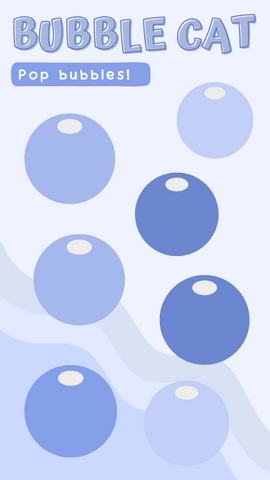
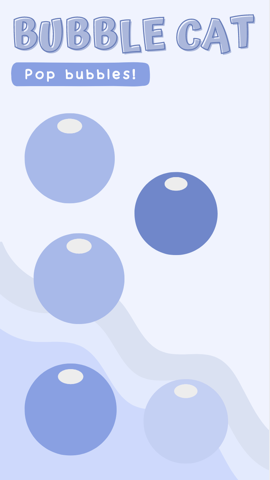
finished!

diff --git a/main.py b/main.py
@@ -8,14 +8,15 @@ root = Tk()
 root.geometry("270x480")
 root.title('Bubble Cat')
 s = Canvas(root, width = 270, height = 480, bg='#FFF7EB')
-s.pack(fill = BOTH, expand=True)
+s.pack(fill = BOTH, expand=False)
 
 retryInt = 0
 
-wrong = ImageTk.PhotoImage(file = 'image/wrong.png')
 bg = ImageTk.PhotoImage(file = 'image/bg.png')
 retryBg = ImageTk.PhotoImage(file = 'image/congrats+retry.png')
+HTPbg = ImageTk.PhotoImage(file = "image/HTP.png")
 logo = ImageTk.PhotoImage(file = 'image/logo.png')
+gameBg = ImageTk.PhotoImage(file = 'image/game.png')
 s.create_image(130, 140, image = (logo), anchor = CENTER)
 
 point = 0
@@ -33,10 +34,7 @@ def home():
 	#design
 	wave3 = s.create_polygon(-50, 435, 0, 435, 75, 450, 125, 400, 155, 380, 200, 360, 280, 380, 400, 380, -50, 450, smooth = True, fill = "#516ab0")
 	wave1 = s.create_polygon(-100, 400, 0, 600, 300, 480, 350, 450, 135, 400, 60, 380, smooth = TRUE, fill = "#93AAE8")
-	wave2 = s.create_polygon(-100, 350, 0, 600, 300, 480, 350, 330, 75, 450, smooth = TRUE, fill = "#627ABD")
-
-	bubble1 = s.create_oval(0, 400, 50, 450, fill = "", outline = "white")
-	
+	wave2 = s.create_polygon(-100, 350, 0, 600, 300, 480, 350, 330, 75, 450, smooth = TRUE, fill = "#627ABD")	
 
 def howToPlay():
 	global startBtn, HTPBtn
@@ -48,24 +46,22 @@ def howToPlay():
 	wave1 = s.create_polygon(-100, 400, 0, 600, 300, 480, 350, 450, 135, 400, 60, 380, smooth = TRUE, fill = "#93AAE8")
 	wave2 = s.create_polygon(-100, 350, 0, 600, 300, 480, 350, 330, 75, 450, smooth = TRUE, fill = "#627ABD")
 
-	HTPtab = s.create_polygon(30, 100, 30, 250, 240, 250, 240, 100, fill = "white", outline = "black")
-	HTPobjective = s.create_text(135, 115, text = "objective", font = "arial 20", anchor = CENTER, fill = "black")
-	HTPobjectiveText = s.create_text(40, 135, text = "The objective of the game is to pop as \nmany bubbles as possible! \n\nWhen you select a bubble, a fun math \nproblem will appear. Once you've \nsolved the problem correctly, the bubble \nwill pop. \n\n As you pop more bubbles, a mystery cat\n will reward you!", anchor = NW, fill = "black", font = "arial 7")
-	#HTPpointform1 = s.create_oval()
-  
-	WEPtab = s.create_polygon(40, 270, 230, 270, 230, 320, 40, 320, fill = "white", outline = "black")
-	WEPtext = s.create_text(50, 280, text = "Bubble Cat will motivate you into \npracticing math - - because we recognize \nthe struggles of high school math.", font = "arial 6", fill = "black", anchor = NW)
-
-	WCTtab = s.create_polygon(40, 350, 230, 350, 230, 390, 40, 390, fill = "white", outline = "black")
-	WCTtext = s.create_text(55, 360, text = "Bubble Cat was created by Elaine Zhu, \nBella Kim, Amy Zhou and Jasmine Xu!", anchor = NW, fill = "black", font = "arial 6")
-
+	s.create_image(0, 0, image = (HTPbg), anchor = NW)
+	
 	startBtn = Button(root, text = "Start", command = game, bg="#93AAE8", font="Arial 10", anchor = CENTER)
 	startBtn.pack()
-	startBtn.place(x=135, y=400,height=21,width=150,anchor=CENTER)
+	startBtn.place(x=135, y=420, height=21,width=150,anchor=CENTER)
 	
 
 def game():
-	global startBtn, HTPBtn, trigBtn, quadBtn, point, retryBtn, multiBtn, exponentsBtn, factoringBtn, rootsBtn, retryInt
+	global startBtn, HTPBtn, trigBtn, quadBtn, point, retryBtn, multiBtn, exponentsBtn, rootsBtn, retryInt, quadquestions, quadanswers, quadanswers2, trigquestions, triganswers
+	quadquestions = ["Two consecutive integers are \nadded. The square of their \nsum is 361. What is the \nsum of the integers", "The area of a rectangle is \n36cm2. The side lenghts are \n(x-5) and (x). What is one \nof the sides dimensions?", "-3 is one root of the equation \n3x^2 + mx + 3 = 0, \nwhat is the value of m.", "a^2 - 8a + 16 = 0","Find the axis of symmetry for: \ny=2x^2-4x-1", "You have to close a retangular \nfield with only 600m of fencing. \nWhat are that is the maxium area \nof the field?"]
+	quadanswers = [19, 4, 10, 4, 1, 22500]
+	quadanswers2 = [19, 9, 10, 4, 1, 22500]
+
+	trigquestions = ["In triangle PQR, PR = 20 cm, \n< Q = 90°, < R = 41°. \nFind RQ to the nearest cm", "From the top of a tower, the \nangle of depression to the tip \nof the tower's shadow is 88°. \nThe shadow is 19.5m long. \nHow tall is the tower?\n(nearest m)", "A road has a 10% gradient,\nmeaning it rises 10m for \nevery 100m of horizontal \ndistance. What is the angle of \ninclination of the road, \nto the nearest degree?", "A 25 foot tall flagpole casts a \n42 foot shadow. What is the \nangle that the sun hits the \nflagpole?(Round to nearest \nangle)", "Shannon's job is to measure \nproperties. For a triangluar \npiece of land, 2 sides measure \n4.9m and 5.8m and meet at a \ncommon point seperat by a \n35° angle. Find the total \nperimeter of the piece of land.", "The tower is approximately 179m \nin height and is approximately \n16.5m out of plumb. Find the angle \nat which it deviates from the \nvertical(nearest °)" ]
+	triganswers = [13, 558, 6, 59, 14, 5]
+	
 	point = 0
 	s.delete("all")
 	startBtn.destroy()
@@ -76,16 +72,6 @@ def game():
 		retryBtn.destroy()
 
 	s.create_image(0, 0, image = (bg), anchor= NW)
-	
-	spacing = 25
-
-	for x in range(0, 800, spacing): 
-		s.create_line(x, 25, x, 600, fill="white")
-		s.create_text(x, 5, text=str(x), font="Times 9", anchor = N, fill = "black")
-	
-	for y in range(0, 600, spacing):
-		s.create_line(25, y, 800, y, fill="white")
-		s.create_text(5, y, text=str(y), font="Times 9", anchor = W, fill = "black")
 
 	trigBtn = Button(root, text = "Trignometry", command = trig, bg="#a5b8ed", font="Arial 7", anchor = CENTER)
 	trigBtn.pack()
@@ -103,62 +89,12 @@ def game():
 	exponentsBtn.pack()
 	exponentsBtn.place(x=70, y=410, height=21, width=75, anchor=CENTER)
 
-	# factoringBtn = Button(root, text = "Factoring", command = exponents, bg="#c3cff6", font="Arial 7", anchor = CENTER)
-	# factoringBtn.pack()
-	# factoringBtn.place(x=215, y=120, height=21, width=70, anchor=CENTER)
-
 	rootsBtn = Button(root, text = "Roots", command = roots, bg="#a5b8ed", font="Arial 7", anchor = CENTER)
 	rootsBtn.pack()
 	rootsBtn.place(x=80, y=280, height=21, width=75, anchor=CENTER)
 
 def trig():
-	global answer, answerWindow, triga, point, enterBtn, retryBtn, retryInt
-
-	if point < 3:
-		s.delete("all")
-		quadBtn.destroy()
-		trigBtn.destroy()
-		startBtn.destroy()
-		multiBtn.destroy()
-		exponentsBtn.destroy()
-		rootsBtn.destroy()
-
-		if retryInt == 1:
-			retryBtn.destroy()
-
-		trigquestions = ["In triangle PQR, PR = 20 cm, \n< Q = 90°, < R = 41°. \nFind RQ to the nearest cm", "From the top of a tower, the \nangle of depression to the tip \nof the tower's shadow is 88°. \nThe shadow is 19.5m long. \nHow tall is the tower?\n(nearest m)", "A road has a 10% gradient,\nmeaning it rises 10m for \nevery 100m of horizontal \ndistance. What is the angle of \ninclination of the road, \nto the nearest degree?", "A 25 foot tall flagpole casts a \n42 foot shadow. What is the \nangle that the sun hits the \nflagpole?(Round to nearest \nangle)"]
-		triganswers = [13, 558, 6, 59]
-		randomnum = randint(0, 3)
-		trigq = trigquestions[randomnum]
-		triga = triganswers[randomnum]
-	
-		treasurechestbot = s.create_polygon(50, 260, 220, 260, 220, 360, 50, 360, width = 15, fill = "#75421d", outline = "#fedd54")
-		question = s.create_text(64, 275, text = trigq, anchor = NW, fill = "white", font = "arial 7")
-	
-		treasurechesttop = s.create_polygon(50, 260, 220, 260, 190, 210, 80, 210, width = 15, fill = "#75421d", outline = "#fedd54")
-	
-		answer = Entry(root, font=("Helvetica", 7), width=17, fg="#000000", borderwidth=0)
-		answerWindow = s.create_window(80, 230, anchor="nw", window=answer)
-	
-		def check():
-			global answer, answerWindow, triga, point, retryInt
-			answerUser = answer.get()
-			
-			if int(answerUser) == triga:
-				point += 1
-				enterBtn.destroy()
-				trig()
-			
-		enterBtn = Button(root, text = "🔍", command = check, bg="white", font="Helvetica 7", anchor = NE)
-		enterBtn.pack()
-		enterBtn.place(x=180, y=230, height = 16, width = 16, anchor = NW)
-
-	else:
-		enterBtn.destroy()
-		retry()
-
-def quad():
-	global answer, answerWindow, quada, quadaa ,point, enterBtn, retryBtn, retryInt
+	global answer, answerWindow, triga, point, enterBtn, retryBtn, retryInt, trigq, trigquestions, triganswers
 
 	if point < 3:
 		s.delete("all")
@@ -173,35 +109,78 @@ def quad():
 			retryBtn.destroy()
 
 		
-		quadquestions = ["Two consecutive integers are \nadded. The square of their sum is 361. What is the sum of the integers", "The area of a rectangle is \n36cm2. The side lenghts are (x-5) and (x). What is one of the sides dimensions?", "If -3 is one root of the equation 3x^2 + mx + 3 = 0, what is the value of m.", "a^2 - 8a + 16 = 0"]
-		quadanswers = [19, 4, 10, 4]
-		quadanswers2 = [19, 9, 10, 4]
-		quadrandomnum = randint(0, 3)
+		randomnum = randint(0, len(trigquestions)-1)
+		trigq = trigquestions[randomnum]
+		triga = triganswers[randomnum]
+
+		trigquestions.remove(trigq)
+		triganswers.remove(triga)
+		
+		s.create_image(0, 0, image = (gameBg), anchor = NW)
+		question = s.create_text(64, 275, text = trigq, anchor = NW, fill = "white", font = "arial 7")
+		answer = Entry(root, font=("Helvetica", 7), width=17, fg="#000000", borderwidth=0)
+		answerWindow = s.create_window(80, 200, anchor="nw", window=answer)
+	
+		def check():
+			global answer, answerWindow, triga, point, retryInt
+			answerUser = answer.get()
+			
+			if int(answerUser) == triga:
+				point += 1
+				enterBtn.destroy()
+				trig()
+			
+		enterBtn = Button(root, text = "✓", command = check, bg="white", font="Helvetica 7", anchor = NE)
+		enterBtn.pack()
+		enterBtn.place(x=180, y=200, height = 16, width = 16, anchor = NW)
+
+	else:
+		enterBtn.destroy()
+		retry()
+
+def quad():
+	global answer, answerWindow, quada, quadaa ,point, enterBtn, retryBtn, retryInt, quadquestions, quaadanswers, quadanswers2
+
+	
+	if point < 3:
+		s.delete("all")
+		quadBtn.destroy()
+		trigBtn.destroy()
+		startBtn.destroy()
+		multiBtn.destroy()
+		exponentsBtn.destroy()
+		rootsBtn.destroy()
+
+		if retryInt == 1:
+			retryBtn.destroy()
+
+		quadrandomnum = randint(0,len(quadquestions)-1)
 		quadq = quadquestions[quadrandomnum]
 		quada = quadanswers[quadrandomnum]
 		quadaa = quadanswers2[quadrandomnum]
+
+		quadquestions.remove(quadq) 
+		quadanswers.remove(quada)
+		quadanswers2.remove(quadaa)
 	
-		treasurechestbot = s.create_polygon(50, 260, 220, 260, 220, 360, 50, 360, width = 15, fill = "#75421d", outline = "#fedd54")
+		s.create_image(0, 0, image = (gameBg), anchor = NW)
 		question = s.create_text(64, 275, text = quadq, anchor = NW, fill = "white", font = "arial 7")
 	
-		treasurechesttop = s.create_polygon(50, 260, 220, 260, 190, 210, 80, 210, width = 15, fill = "#75421d", outline = "#fedd54")
-	
 		answer = Entry(root, font=("Helvetica", 7), width=17, fg="#000000", borderwidth=0)
-		answerWindow = s.create_window(80, 230, anchor="nw", window=answer)
+		answerWindow = s.create_window(80, 200, anchor="nw", window=answer)
 	
 		def check():
-			global answer, answerWindow, quadq, point, retryInt
+			global answer, answerWindow, quadq, point, retryInt, quadquestions, quadanswers, quadanswers2
 			answerUser = answer.get()
 			
 			if int(answerUser) == quada or int(answerUser) == quadaa:
 				point += 1
 				enterBtn.destroy()
 				quad()
-
 	
-		enterBtn = Button(root, text = "🔍", command = check, bg="white", font="Helvetica 7", anchor = NE)
+		enterBtn = Button(root, text = "✓", command = check, bg="white", font="Helvetica 7", anchor = NE)
 		enterBtn.pack()
-		enterBtn.place(x=180, y=230, height = 16, width = 16, anchor = NW)
+		enterBtn.place(x=180, y=200, height = 16, width = 16, anchor = NW)
 
 	else:
 		enterBtn.destroy()
@@ -229,13 +208,11 @@ def multiplication():
 		multiplyanswer = a * b
 
 	
-		treasurechestbot = s.create_polygon(50, 260, 220, 260, 220, 360, 50, 360, width = 15, fill = "#75421d", outline = "#fedd54")
+		s.create_image(0, 0, image = (gameBg), anchor = NW)
 		question = s.create_text(70, 300, text = "(" + (str(a) + ") * (" + str(b)) + ")", anchor = NW, fill = "white", font = "arial 15")
 	
-		treasurechesttop = s.create_polygon(50, 260, 220, 260, 190, 210, 80, 210, width = 15, fill = "#75421d", outline = "#fedd54")
-	
 		answer = Entry(root, font=("Helvetica", 7), width=17, fg="#000000", borderwidth=0)
-		answerWindow = s.create_window(80, 230, anchor="nw", window=answer)
+		answerWindow = s.create_window(80, 200, anchor="nw", window=answer)
 	
 		def check():
 			global answer, answerWindow, multiplyanswer, point, multiBtn, retryInt
@@ -247,9 +224,9 @@ def multiplication():
 				multiplication()
 
 	
-		enterBtn = Button(root, text = "🔍", command = check, bg="white", font="Helvetica 7", anchor = NE)
+		enterBtn = Button(root, text = "✓", command = check, bg="white", font="Helvetica 7", anchor = NE)
 		enterBtn.pack()
-		enterBtn.place(x=180, y=230, height = 16, width = 16, anchor = NW)
+		enterBtn.place(x=180, y=200, height = 16, width = 16, anchor = NW)
 
 	else:
 		enterBtn.destroy()
@@ -270,20 +247,18 @@ def exponents():
 		if retryInt == 1:
 			retryBtn.destroy()
 
-		a = randint(-10, 10)
+		a = randint(-10, 20)
 		b = randint(0, 6)
 
 		exponentans = a ** b
 
 	
-		treasurechestbot = s.create_polygon(50, 260, 220, 260, 220, 360, 50, 360, width = 15, fill = "#75421d", outline = "#fedd54")
+		s.create_image(0, 0, image = (gameBg), anchor = NW)
 		question1 = s.create_text(160, 300, text = "(" + str(a) + ")", anchor = NE, fill = "white", font = "arial 15")
 		question2 = s.create_text(160, 300, text = str(b), anchor = NW, fill = "white", font = "arial 10")
-	
-		treasurechesttop = s.create_polygon(50, 260, 220, 260, 190, 210, 80, 210, width = 15, fill = "#75421d", outline = "#fedd54")
-	
+
 		answer = Entry(root, font=("Helvetica", 7), width=17, fg="#000000", borderwidth=0)
-		answerWindow = s.create_window(80, 230, anchor="nw", window=answer)
+		answerWindow = s.create_window(80, 200, anchor="nw", window=answer)
 	
 		def check():
 			global answer, answerWindow, exponentans, point, exponentsBtn, retryInt
@@ -295,9 +270,9 @@ def exponents():
 				exponents()
 
 	
-		enterBtn = Button(root, text = "🔍", command = check, bg="white", font="Helvetica 7", anchor = NE)
+		enterBtn = Button(root, text = "✓", command = check, bg="white", font="Helvetica 7", anchor = NE)
 		enterBtn.pack()
-		enterBtn.place(x=180, y=230, height = 16, width = 16, anchor = NW)
+		enterBtn.place(x=180, y=200, height = 16, width = 16, anchor = NW)
 
 	else:
 		enterBtn.destroy()
@@ -318,18 +293,16 @@ def roots():
 		if retryInt == 1:
 			retryBtn.destroy()
 
-		o = randint(0, 10)
+		o = randint(0, 25)
 
 		squareroot = o*o
 
 	
-		treasurechestbot = s.create_polygon(50, 260, 220, 260, 220, 360, 50, 360, width = 15, fill = "#75421d", outline = "#fedd54")
+		s.create_image(0, 0, image = (gameBg), anchor = NW)
 		question = s.create_text(70, 300, text = "√" +  str(squareroot), anchor = NW, fill = "white", font = "arial 15")
 	
-		treasurechesttop = s.create_polygon(50, 260, 220, 260, 190, 210, 80, 210, width = 15, fill = "#75421d", outline = "#fedd54")
-	
 		answer = Entry(root, font=("Helvetica", 7), width=17, fg="#000000", borderwidth=0)
-		answerWindow = s.create_window(80, 230, anchor="nw", window=answer)
+		answerWindow = s.create_window(80, 200, anchor="nw", window=answer)
 	
 		def check():
 			global answer, answerWindow, o, point, rootsBtn, retryInt
@@ -342,9 +315,9 @@ def roots():
 
 			
 
-		enterBtn = Button(root, text = "🔍", command = check, bg="white", font="Helvetica 7", anchor = NE)
+		enterBtn = Button(root, text = "✓", command = check, bg="white", font="Helvetica 7", anchor = NE)
 		enterBtn.pack()
-		enterBtn.place(x=180, y=230, height = 16, width = 16, anchor = NW)
+		enterBtn.place(x=180, y=200, height = 16, width = 16, anchor = NW)
 
 	else:
 		enterBtn.destroy()
